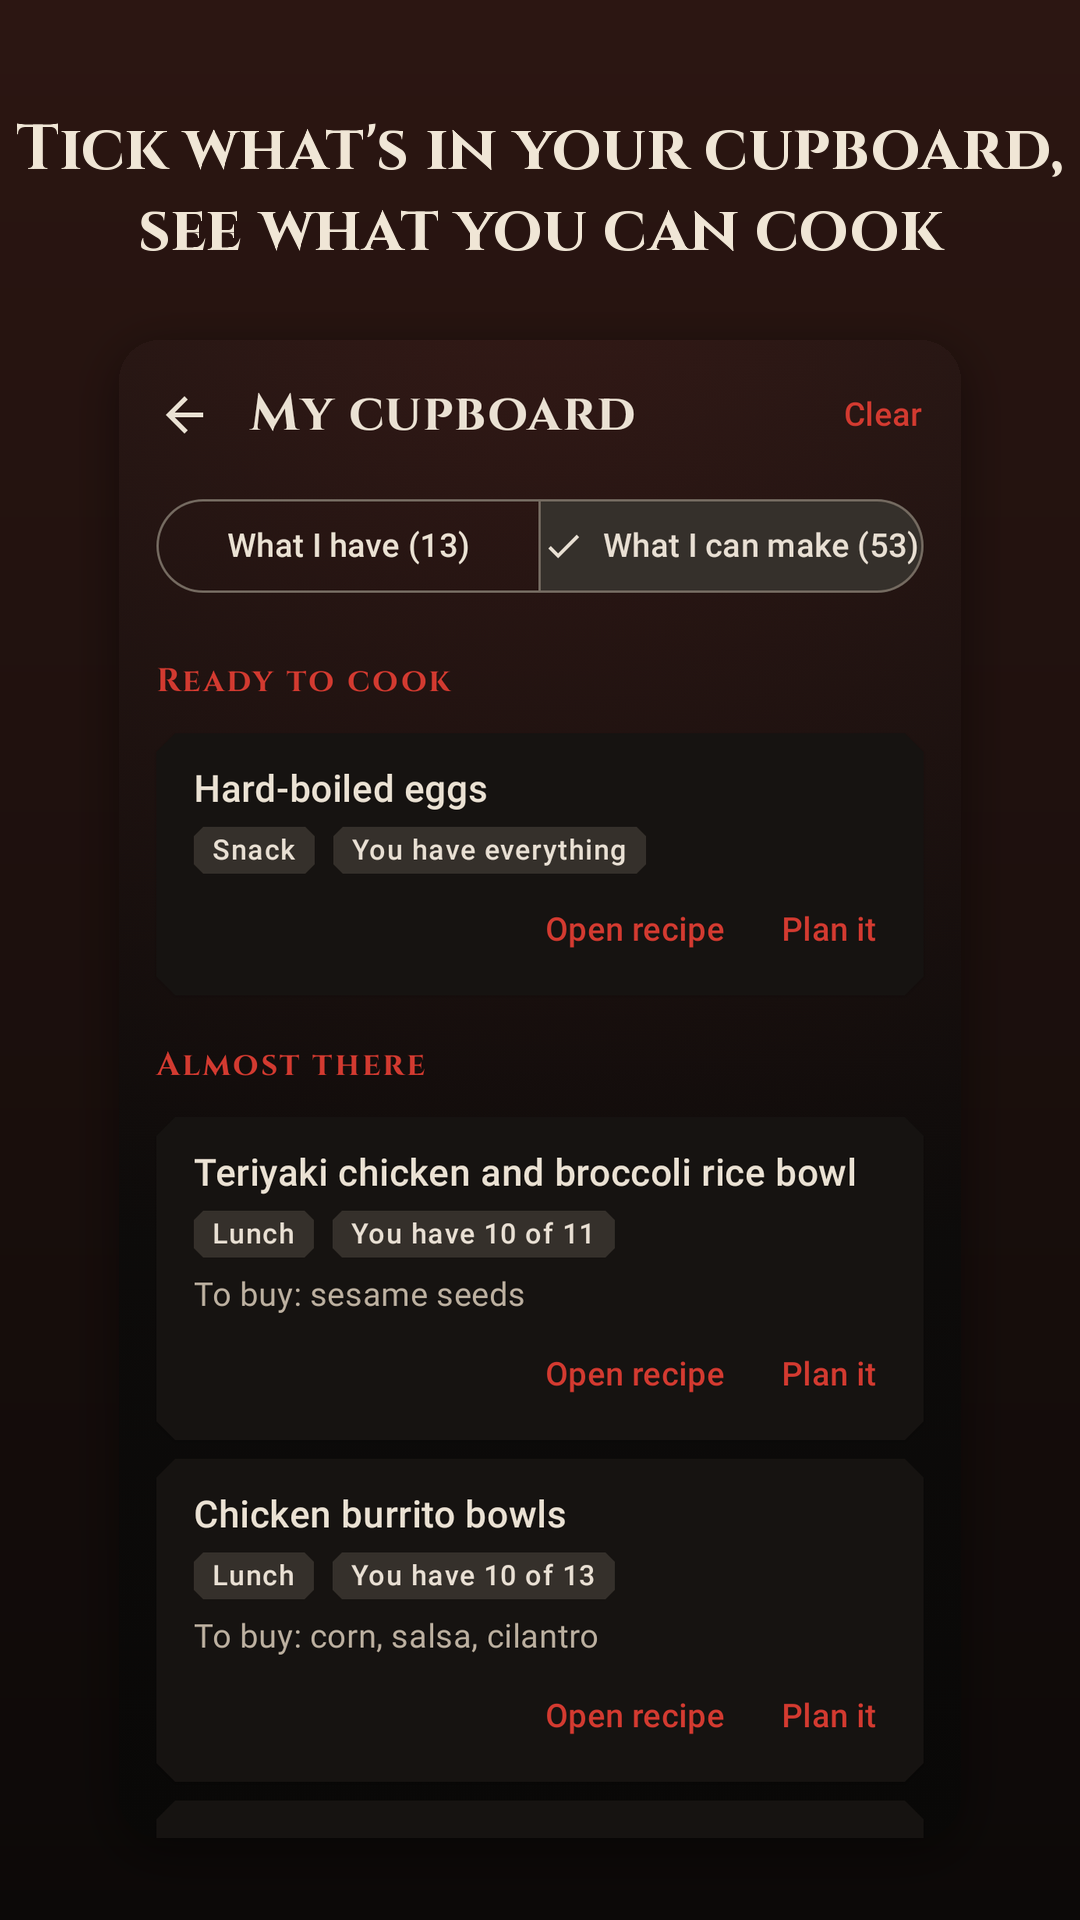
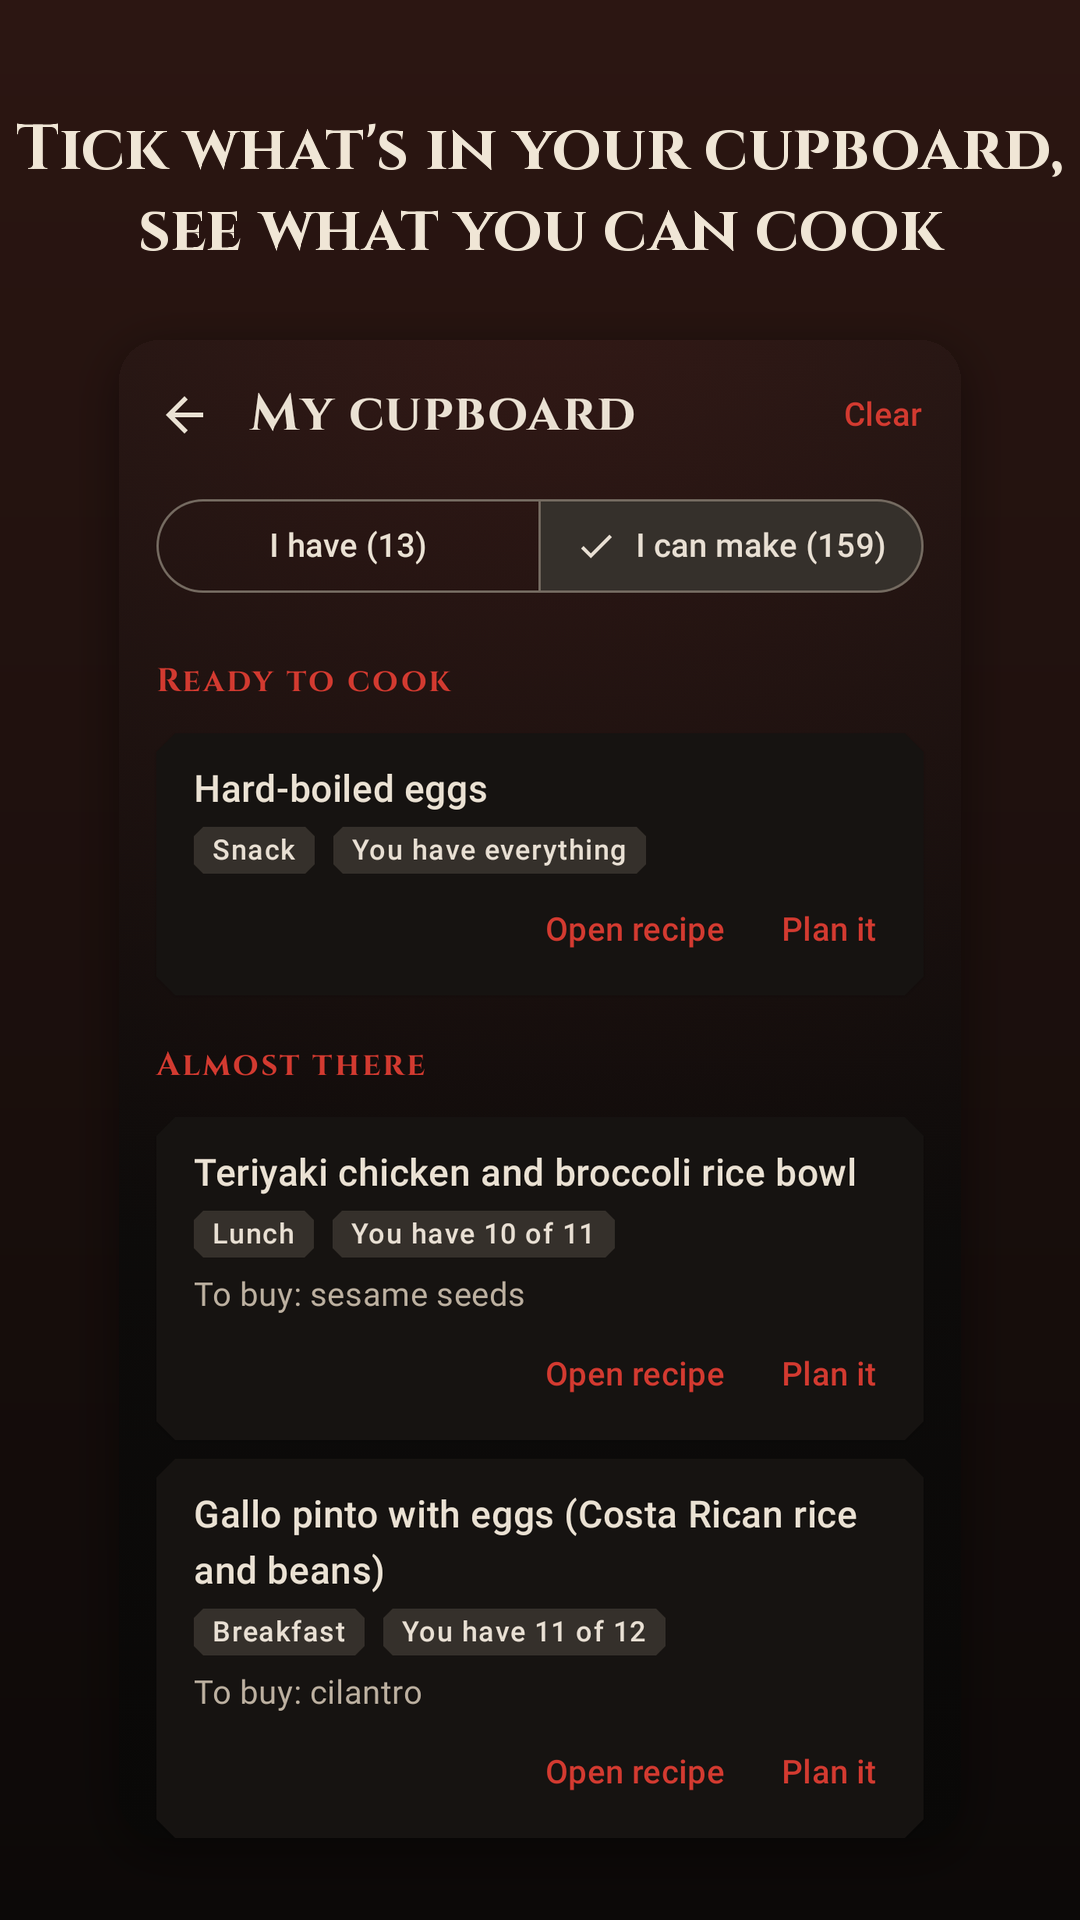
Store kit and README for the world recipes and restaurant pages
- README: what version 5 adds, how the recipe files are checked and merged, and
  where the restaurant list lives.
- Store kit: listing text for the bigger library and the takeout feature with
  no restaurant names in it, a note on why they stay out of the listing and
  screenshots, what to check in restaurants.json before launch, and a privacy
  policy line about the two buttons that open a web search.
- Home versions on a restaurant page show their serving size with the figures,
  since a home serving includes the rice or sides.
- Cupboard tabs read "I have" and "I can make" so three-digit counts fit.
- Soft-yolk egg recipes say how long firm yolks take; two restaurant tips
  reworded.

Claude-Session: https://claude.ai/code/session_01AgEek7SaWWDv3g6qExxaFi

diff --git a/app/src/main/java/com/personal/mealgym/ui/cook/CupboardScreen.kt b/app/src/main/java/com/personal/mealgym/ui/cook/CupboardScreen.kt
@@ -164,7 +164,8 @@ fun CupboardScreen(nav: AppNavigator, vm: CupboardViewModel = viewModel(factory 
         Column(Modifier.fillMaxSize().padding(padding)) {
         // Stays put above the list, so the count of matches is always in view while ticking.
         SingleChoiceSegmentedButtonRow(Modifier.fillMaxWidth().padding(start = 16.dp, end = 16.dp, bottom = 8.dp)) {
-            listOf("What I have (${state.have.size})" to false, "What I can make (${state.matches.size})" to true)
+            // Short labels: with the whole library matching, the second count is often three digits.
+            listOf("I have (${state.have.size})" to false, "I can make (${state.matches.size})" to true)
                 .forEachIndexed { index, (label, value) ->
                     SegmentedButton(
                         selected = showRecipes == value,
@@ -277,7 +278,7 @@ private fun androidx.compose.foundation.lazy.LazyListScope.recipes(
         item {
             EmptyState(
                 title = "Nothing ticked yet",
-                body = "Tick a few things under \"What I have\" and recipes that use them show up here.",
+                body = "Tick a few things under \"I have\" and recipes that use them show up here.",
             )
         }
         return

diff --git a/store-kit/privacy-policy.html b/store-kit/privacy-policy.html
@@ -37,7 +37,7 @@
 
 <h2>What you enter stays on your phone</h2>
 <p>Names you give each person, meal plans, recipes, shopping lists, what you tick in "My cupboard", workouts, weights and reps, sauna times and settings are stored only on your device. We do not run a server, and the app does not send this information to us or to anyone else.</p>
-<p>Some things leave your phone only when you choose: exporting a backup or a meal plan writes a file to a place you pick, and sharing a shopping list sends it to the app you pick. What happens to it then is up to you and that app.</p>
+<p>Some things leave your phone only when you choose: exporting a backup or a meal plan writes a file to a place you pick, and sharing a shopping list sends it to the app you pick. What happens to it then is up to you and that app. Two buttons, "Watch a demo" and "Check current nutrition", open a web search in your phone's browser for the name of an exercise or a restaurant. Nothing about you is added to the search, and what the browser and search provider do with it is covered by their own policies.</p>
 <p>Uninstalling the app, or clearing its storage in Android settings, deletes everything it stored. Backup files you exported are not affected.</p>
 
 <h2>Ads (free version)</h2>

diff --git a/app/src/main/java/com/personal/mealgym/ui/cravings/CravingsScreen.kt b/app/src/main/java/com/personal/mealgym/ui/cravings/CravingsScreen.kt
@@ -296,7 +296,11 @@ private fun HomemadeRow(recipe: Recipe, like: String?, showNutrition: Boolean, o
         supportingContent = {
             Column {
                 if (like != null) Text("Like $like")
-                recipe.nutritionText?.takeIf { showNutrition && it.isNotBlank() }?.let { Text("A serving, approx.: $it") }
+                // With the serving size, since a home serving usually includes the rice or sides the menu figure leaves out.
+                recipe.nutritionText?.takeIf { showNutrition && it.isNotBlank() }?.let { figures ->
+                    val size = recipe.servingSizeText.trim()
+                    Text(if (size.isEmpty()) "A serving: $figures" else "${size.replaceFirstChar { it.uppercase() }}: $figures")
+                }
             }
         },
         trailingContent = { Icon(Icons.AutoMirrored.Filled.KeyboardArrowRight, contentDescription = null) },

diff --git a/app/src/testPersonal/java/com/personal/mealgym/ui/ScreenshotTest.kt b/app/src/testPersonal/java/com/personal/mealgym/ui/ScreenshotTest.kt
@@ -220,9 +220,9 @@ class ScreenshotTest {
             compose.onAllNodes(hasScrollAction()).onFirst().performScrollToNode(hasText(item))
             compose.onAllNodesWithText(item).onFirst().performClick()
         }
-        compose.waitUntil(10_000) { compose.onAllNodesWithText("What I have (7)").fetchSemanticsNodes().isNotEmpty() }
+        compose.waitUntil(10_000) { compose.onAllNodesWithText("I have (7)").fetchSemanticsNodes().isNotEmpty() }
         shot("71-cupboard-ticked")
-        compose.onAllNodesWithText("What I can make", substring = true).onFirst().performClick()
+        compose.onAllNodesWithText("I can make", substring = true).onFirst().performClick()
         // Soy sauce, honey and the other staples already count, so the teriyaki bowl only lacks sesame seeds.
         waitForText("Almost there")
         shot("72-cupboard-recipes")

diff --git a/app/src/testStore/java/com/personal/mealgym/ui/CravingsTest.kt b/app/src/testStore/java/com/personal/mealgym/ui/CravingsTest.kt
@@ -97,6 +97,8 @@ class CravingsTest {
         scrollTo("Check current nutrition (opens a web search)")
         scrollTo("Make it at home")
         scrollTo("Like a chicken burrito bowl")
+        // The home figure comes with its serving size, which includes the rice.
+        scrollTo("1 bowl with 1/2 cup rice: ~560 cal")
         scrollTo("not affiliated with")
         shot("cravings-3-make-it-at-home")
 
@@ -161,6 +163,6 @@ class CravingsTest {
         scrollTo("Sofritas (braised tofu)")
         assertTrue(!shown("about 180 cal"))
         scrollTo("Chicken burrito bowls")
-        assertTrue(!shown("A serving, approx."))
+        assertTrue(!shown("g protein"))
     }
 }

diff --git a/app/src/testStore/java/com/personal/mealgym/ui/StoreListingScreenshots.kt b/app/src/testStore/java/com/personal/mealgym/ui/StoreListingScreenshots.kt
@@ -144,7 +144,7 @@ class StoreListingScreenshots {
         waitForText("What can I make from my cupboard?")
         compose.onAllNodesWithText("What can I make from my cupboard?").onFirst().performClick()
         waitForText("Search ingredients")
-        compose.onAllNodesWithText("What I can make", substring = true).onFirst().performClick()
+        compose.onAllNodesWithText("I can make", substring = true).onFirst().performClick()
         waitForText("To buy:")
         shot("listing-9-cupboard")
     }

diff --git a/tools/recipes_v4_b.py b/tools/recipes_v4_b.py
@@ -26,7 +26,7 @@ RECIPES = [
         ing(None, None, "salt", T),
     ], [
         "Stir the grated garlic and a pinch of salt into the yogurt and spread it in a shallow bowl. Let it lose its chill while you cook.",
-        "Bring a small pan of water to a gentle simmer and add the vinegar. Crack in the eggs and poach for 3 to 4 minutes, until the whites are set.",
+        "Bring a small pan of water to a gentle simmer and add the vinegar. Crack in the eggs and poach for 3 to 4 minutes, until the whites are set (5 minutes for firm yolks).",
         "Melt the butter in a small pan, then stir in the paprika and red pepper flakes for 20 seconds until it smells toasty.",
         "Lift the eggs onto the yogurt with a slotted spoon, spoon the spiced butter over them and scatter with dill.",
         "Serve with the toast for scooping.",

diff --git a/tools/recipes_v4_a.py b/tools/recipes_v4_a.py
@@ -99,7 +99,7 @@ RECIPES = [
     ], [
         "Toss the carrot with the vinegar, sugar and a pinch of salt. Leave it for 10 minutes to pickle lightly.",
         "Warm the baguette in a 350°F oven or a toaster for 3 to 4 minutes until the crust is crisp.",
-        "Heat the oil in a small nonstick pan over medium heat. Crack in the eggs and fry for 2 to 3 minutes until the whites are set and the yolks are still soft.",
+        "Heat the oil in a small nonstick pan over medium heat. Crack in the eggs and fry for 2 to 3 minutes until the whites are set and the yolks are still soft (a minute longer for firm yolks).",
         "Sprinkle the eggs with the soy sauce and plenty of black pepper.",
         "Serve with the baguette, cucumber, tomato, jalapeño, pickled carrot and cilantro, dipping the bread in the yolks.",
     ]),

diff --git a/README.md b/README.md
@@ -32,6 +32,15 @@ Settings > Look offers 15 ready-made looks and a creator for your own. Swag's da
 - The personal edition gets the cupboard and the new recipes. Swag's and Ashley's plans, portions and Ashley's own daily guide are unchanged; the questionnaire is store-only.
 - Database version 5 adds `Profile.planAnswers`. Nothing here needs the internet, and none of it leaves the phone.
 
+## World recipes and "What are you craving?" (version 5)
+
+- **186 recipes** (181 in the store edition). Seed version 4 adds 100 dishes from around the world (Asia 34, Europe, the Middle East and Africa 33, the Americas 33: congee, bibimbap, dal bhat, jollof rice, koshari, tagine, lomo saltado, moqueca, soup joumou and so on) and 14 home versions of restaurant favorites. Each keeps to supermarket ingredients, with the traditional item named where a stand-in is used. Phones that already have the app get the new recipes on upgrade; nothing already there changes.
+- **How they're made**: `tools/recipes_v4_a.py`, `_b.py`, `_c.py` and `_copycat.py` hold the recipes, written with `tools/recipe_lib.py` (which works out the nutrition line from the ingredients). `tools/check_recipes.py` rejects anything outside the rules (calories and protein per serving for its meal, a safe internal temperature for meat and fish, known units, one cuisine tag, no alcohol), and `python3 tools/recipes_v4.py && python3 tools/store_seed.py` merges them into both seeds.
+- **What are you craving?** (both editions): Cook > "What are you craving?" lists 12 fast-food and coffee chains. Each page has the better picks with approximate calories and protein, how to order, a button that opens a web search for the restaurant's current nutrition, and "Make it at home": the recipes here that taste like the menu favorites. A recipe's own page says what it is like ("Like the chili at Wendy's").
+- **The restaurant list** is `app/src/main/assets/restaurants.json`: plain data with an `asOf` date. The figures were gathered from published menu information in November 2026 and are worded as approximate ("about", "roughly", ranges where sources disagree). Nothing is fetched, so the personal edition stays offline. Restaurant names appear as plain text, with no logos, under a note that the app isn't affiliated with any of them. To drop or add a place, edit the file; `RestaurantFileTest` and the seed tests check it.
+- **Foods to avoid on the restaurant pages**: a pick whose main ingredients include something the person avoids is marked and moved down, home versions with something they avoid are left out, and anyone avoiding an allergen sees a note to check the restaurant's own allergen guide. The app only knows main ingredients, never a restaurant's full allergen list, and it says so.
+- **Smaller changes**: search ignores accents ("golabki" finds "Gołąbki"); a "Make it with..." swap can carry its own amount ("2 cans chickpeas" in place of 1 1/2 lb chicken); the allergen detector knows more foods (baguette, za'atar, halloumi, orzo and others); "Show nutrition info" off also hides the restaurant figures.
+
 ## Two editions
 
 The project builds two apps from the same code (Gradle product flavors):
@@ -104,4 +113,5 @@ app/src/main/
   assets/demos/               exercise photos (free-exercise-db, public domain)
   res/font/                   Cinzel, Fredoka, Pacifico (SIL Open Font License, see licenses/)
 tools/exercise_demos.py       matches and bundles the exercise demos
+tools/recipes_v4.py           checks and merges the recipe files into the seed (see above)
 ```

diff --git a/store-kit/listing.md b/store-kit/listing.md
@@ -4,6 +4,13 @@ Paste these into Play Console > Grow users > Store presence > Main store listing
 Google's; the counts below fit them. Don't mention any manga, film or brand in the listing, and
 avoid "best", "#1", "free" in the title or icon, prices, or rankings (Play rejects them).
 
+**Keep restaurant names out of the listing.** The app names 12 chains on its "What are you
+craving?" pages, as plain text with a not-affiliated note. The listing is different: Play's
+rules on impersonation and intellectual property are applied to the title, descriptions and
+screenshots, and another company's name there can get a listing rejected or reported. So the
+text below says "popular fast-food and coffee chains" and none of the screenshots show those
+pages. Leave it that way.
+
 ## App name (30 characters max)
 
     Meal & Gym: Planner & Gym Log
@@ -29,9 +36,17 @@ COOK FROM YOUR CUPBOARD
 • Tick what's in your fridge and cupboards and see what you can make right now.
 • Recipes that are nearly there show exactly what's missing, and one tap plans them.
 
+180 RECIPES FROM AROUND THE WORLD
+• Healthy, high-protein dishes from Asia, Africa, Europe, the Middle East, the Caribbean and the Americas, made with ordinary supermarket ingredients.
+• Vegetarian, fish and egg dishes alongside chicken, beef and pork, each with approximate calories and protein per serving.
+
+WHEN YOU'RE CRAVING TAKEOUT
+• Pick from a dozen popular fast-food and coffee chains and see the better choices on the menu, with approximate calories and protein and tips for ordering.
+• Or make it at home: lighter home versions of restaurant favorites, grilled or baked.
+
 PLAN THE WEEK
 • Breakfast, lunch and dinner for each day, plus an optional snack.
-• Pick from 65+ healthy, high-protein recipes, including vegetarian and fish dishes, or add your own.
+• Pick from the recipe library or add your own.
 • "Fill my week" plans the empty slots for you from the recipes you like.
 • Meal-prep recipes fill several days in one go. "Repeat last week" copies a week you liked.
 • Filter by protein, cuisine or "Not chicken", mark favourites, and hide recipes for a while.
@@ -70,7 +85,7 @@ PRIVATE BY DESIGN
 
 The free version shows a small banner on some screens (never during a workout or while cooking). A one-time "Remove ads" purchase turns them off for good.
 
-Meal & Gym is a planner, not medical, nutrition or fitness advice. Its calorie and protein guide is an estimate for healthy adults. Allergen information comes from ingredient names, so always check food labels. Check with a doctor before starting a new eating or training plan.
+Meal & Gym is a planner, not medical, nutrition or fitness advice. Its calorie and protein guide is an estimate for healthy adults. Allergen information comes from ingredient names, so always check food labels. Restaurant figures are approximate and menus change, so check the restaurant's own nutrition and allergen information; the app is not affiliated with any restaurant. Check with a doctor before starting a new eating or training plan.
 ```
 
 ## Other listing fields

diff --git a/store-kit/launch-checklist.md b/store-kit/launch-checklist.md
@@ -114,6 +114,22 @@ counting with the screen off. Play asks why:
 Main store listing: paste the text from `listing.md` and upload the files in `graphics/`
 (icon, feature graphic, 8 phone screenshots).
 
+**Restaurant names.** The "What are you craving?" pages name 12 chains so people can find the
+place they're going to. That is ordinary descriptive use, and the app keeps it that way: plain
+text, no logos or brand colours, a note on every page that it isn't affiliated with any
+restaurant, and home recipes named for the dish ("Pickle-brined grilled chicken sandwich")
+with the menu item mentioned only as what it is like. Three things to do yourself:
+
+- Keep the names out of the store listing and screenshots (see the note at the top of
+  `listing.md`).
+- Read through `app/src/main/assets/restaurants.json` before launch. The calories and protein
+  were gathered from published menu information in November 2026, and sources sometimes
+  disagreed, so they are worded as approximate. Check any you rely on against the restaurants'
+  own nutrition pages, and correct the file and its `asOf` date if a menu has changed.
+- If a company ever objects (Play forwards the notice by email), remove its entry from that
+  file and publish an update. Nothing else in the app depends on a particular chain. This is a
+  practical note, not legal advice; ask a lawyer if you want certainty before launch.
+
 ## 8. Internal test, then the Remove ads product
 
 1. **Testing > Internal testing**: create a release, upload the `.aab`, add yourself as a tester,
@@ -155,6 +171,8 @@ Main store listing: paste the text from `listing.md` and upload the files in `gr
 - Banner ads earn little per view; income grows with daily users. The "Remove ads" purchase is
   often a meaningful share of a small app's earnings.
 - Reply to Play policy emails quickly; most issues are form answers, not code.
+- Menus change. Once or twice a year, check the figures in `app/src/main/assets/restaurants.json`
+  against the restaurants' own nutrition pages, update `asOf`, and ship an update.
 
 ## Your personal app and Android's developer verification
 

diff --git a/store-kit/README.md b/store-kit/README.md
@@ -21,8 +21,9 @@ can create.
 | Allergies | Not asked | Nine allergens plus beef, pork and poultry kept off the plan; allergens listed on each recipe |
 | Cupboard | Cook > What can I make from my cupboard? | The same |
 | Starter plans | Your own workout days | Full body 3 days, Upper / lower 4 days, Glute focus 3 days, At home 3 days, or empty |
-| Recipes | 72, including the coffee-shop orders and daily guide | 67 shared recipes and snacks |
+| Recipes | 186, including the coffee-shop orders and daily guide | 181 shared recipes and snacks from around the world |
+| Eating out | Cook > What are you craving? Better picks at 12 chains, and recipes that taste like them | The same |
 | Exercise help | Photos from free-exercise-db plus steps | Three written form cues per move plus "Watch a demo" |
 | Looks | 15 ready-made plus your own, in Settings > Look | The same, and chosen during setup |
 | Internet | None (blocked in the manifest) | Ads and Google Play billing only |
-| Ads | None | Banner on Plan, Cook, recipes and History, after consent; "Remove ads" one-time purchase |
+| Ads | None | Banner on Plan, Cook, recipes, the cupboard, the restaurant pages and History, after consent; "Remove ads" one-time purchase |
